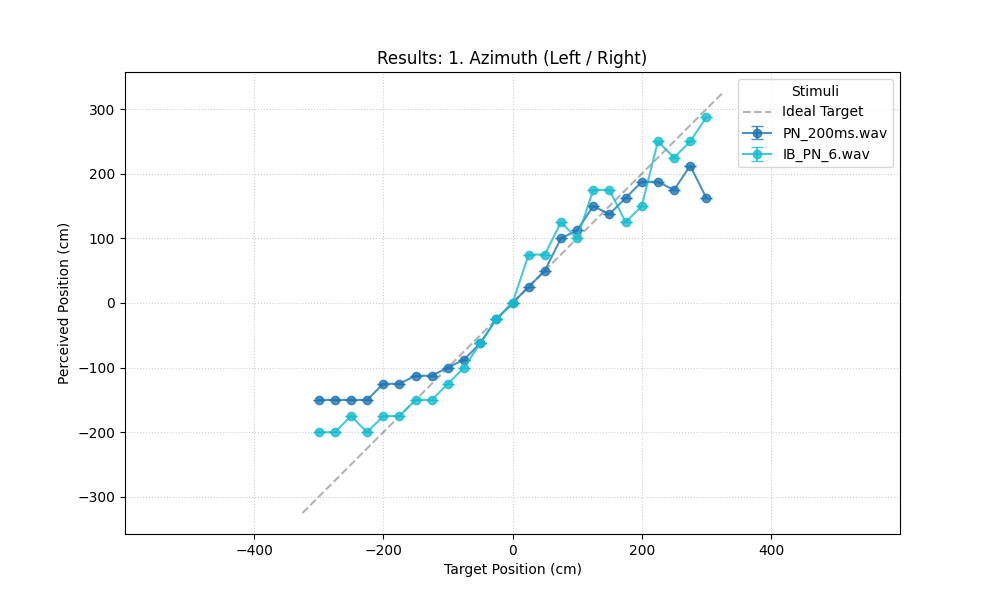
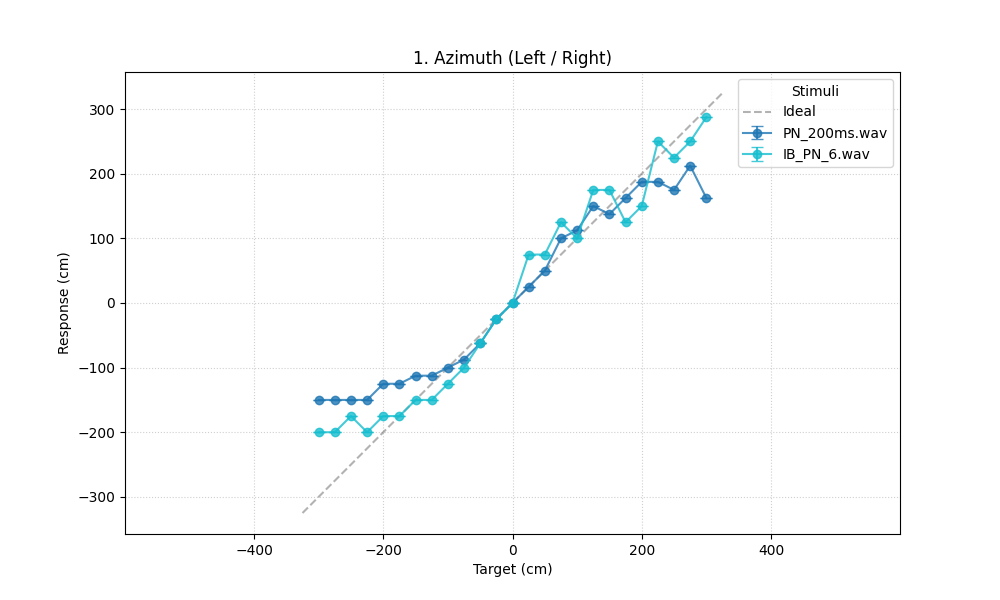
update to compare elev/distance dimensions graph

diff --git a/PanningApp/src/gui/data_analysis.py b/PanningApp/src/gui/data_analysis.py
@@ -6,9 +6,10 @@ from collections import defaultdict
 
 def generate_aggregated_plots(data_folder_name="experiment_data"):
     """
-    1. Scans all CSVs (old and new).
-    2. Generates individual graphs for each Experiment (split by Audio).
-    3. Generates a MASTER GRAPH comparing all Dimensions against each other.
+    1. Scans all CSVs.
+    2. Generates detailed graphs for each Experiment.
+    3. Generates a MASTER GRAPH (All dims).
+    4. Generates COMPARISON GRAPHS (Mono vs Dual for Dist/Elev).
     """
     
     current_file_path = os.path.abspath(__file__)
@@ -19,7 +20,7 @@ def generate_aggregated_plots(data_folder_name="experiment_data"):
         print(f"Data folder not found at: {data_folder}")
         return
 
-    # Structure: experiments[exp_label][audio_filename][target_cm] = [response1, response2...]
+    # Structure: experiments[exp_key][audio_filename][target_cm] = [response1, response2...]
     experiments = defaultdict(lambda: defaultdict(lambda: defaultdict(list)))
     
     files_processed = 0
@@ -35,35 +36,35 @@ def generate_aggregated_plots(data_folder_name="experiment_data"):
             with open(filepath, 'r', encoding='utf-8') as f:
                 reader = csv.reader(f)
                 
-                current_exp = None
+                # We need to map the readable Label back to the Key if possible, 
+                # OR just use the Label as the key. 
+                # Since experiment_logic saves the LABEL in the CSV, we use the Label.
+                current_exp_label = None
                 current_audio = "Unknown Audio"
                 parsing_data = False
                 
                 for row in reader:
                     if not row: continue 
                     
-                    # 1. Detect Metadata
                     if len(row) >= 2:
                         key = row[0].strip()
                         val = row[1].strip()
                         if key == "Experiment":
-                            current_exp = val
+                            current_exp_label = val
                             parsing_data = False 
                         elif key == "Audio":
                             current_audio = val
                     
-                    # 2. Detect Data Block
                     if len(row) > 0 and row[0] == "Trial_ID":
                         parsing_data = True
                         continue 
                         
-                    # 3. Parse Data
-                    if parsing_data and current_exp:
+                    if parsing_data and current_exp_label:
                         try:
                             if len(row) < 4: continue
                             target = float(row[2])
                             response = float(row[3])
-                            experiments[current_exp][current_audio][target].append(response)
+                            experiments[current_exp_label][current_audio][target].append(response)
                         except (ValueError, IndexError):
                             continue
                         
@@ -72,16 +73,27 @@ def generate_aggregated_plots(data_folder_name="experiment_data"):
 
     print(f"Processed {files_processed} CSV files.")
 
-    # --- STEP 2: Generate Individual Experiment Plots ---
-    for exp_name, audio_groups in experiments.items():
-        _plot_multi_line_experiment(exp_name, audio_groups, data_folder)
+    # --- 1. Individual Plots ---
+    for exp_label, audio_groups in experiments.items():
+        _plot_multi_line_experiment(exp_label, audio_groups, data_folder)
 
-    # --- STEP 3: Generate Master Comparison Plot ---
+    # --- 2. Master Comparison ---
     _plot_master_comparison(experiments, data_folder)
+
+    # --- 3. Mono vs Dual Comparisons ---
+    # We look for substrings because the labels in CSV might vary slightly
+    _plot_method_comparison(experiments, data_folder, 
+                            "Distance", 
+                            "2. Distance Single", 
+                            "3. Distance Dual")
+                            
+    _plot_method_comparison(experiments, data_folder, 
+                            "Elevation", 
+                            "4. Elevation Single", 
+                            "5. Elevation Dual")
 
 
 def _plot_multi_line_experiment(exp_name, audio_groups, folder):
-    """Plots one Experiment, with separate lines for each Audio File."""
     plt.figure(figsize=(10, 6))
     
     all_targets = []
@@ -95,7 +107,7 @@ def _plot_multi_line_experiment(exp_name, audio_groups, folder):
     min_val = min(all_targets) - 25
     max_val = max(all_targets) + 25
     
-    plt.plot([min_val, max_val], [min_val, max_val], 'k--', alpha=0.3, label="Ideal Target")
+    plt.plot([min_val, max_val], [min_val, max_val], 'k--', alpha=0.3, label="Ideal")
     
     colors = plt.cm.tab10(np.linspace(0, 1, len(audio_groups)))
     
@@ -103,7 +115,6 @@ def _plot_multi_line_experiment(exp_name, audio_groups, folder):
         targets = sorted(data_dict.keys())
         means = []
         stds = []
-        
         for t in targets:
             responses = data_dict[t]
             means.append(np.mean(responses))
@@ -112,87 +123,104 @@ def _plot_multi_line_experiment(exp_name, audio_groups, folder):
         clean_name = os.path.basename(audio_name)
         plt.errorbar(targets, means, yerr=stds, fmt='o-', capsize=4, label=clean_name, color=colors[i], alpha=0.8)
 
-    plt.title(f"Results: {exp_name}")
-    plt.xlabel("Target Position (cm)")
-    plt.ylabel("Perceived Position (cm)")
+    plt.title(f"{exp_name}")
+    plt.xlabel("Target (cm)")
+    plt.ylabel("Response (cm)")
     plt.grid(True, linestyle=':', alpha=0.6)
     plt.legend(title="Stimuli")
     plt.axis('equal')
     
     safe_name = "".join([c for c in exp_name if c.isalnum() or c in (' ', '_')]).strip().replace(" ", "_")
-    save_path = os.path.join(folder, f"GRAPH_{safe_name}.png")
-    plt.savefig(save_path)
+    plt.savefig(os.path.join(folder, f"GRAPH_{safe_name}.png"))
     plt.close()
-    print(f" -> Generated Graph: {save_path}")
 
 
 def _plot_master_comparison(experiments, folder):
-    """
-    Aggregates ALL data for each Experiment Type (ignoring audio differences)
-    and plots them on a single graph for comparison.
-    """
     plt.figure(figsize=(12, 8))
-    
-    # Track bounds for the diagonal line
     global_min = 0
     global_max = 0
     has_data = False
-
-    # Use a distinct color for each Experiment Type
     colors = plt.cm.Dark2(np.linspace(0, 1, len(experiments)))
 
     for i, (exp_name, audio_groups) in enumerate(experiments.items()):
-        # 1. Merge all audio data for this experiment into one bucket
-        merged_data = defaultdict(list)
+        # Merge all audio
+        merged = defaultdict(list)
+        for _, data_dict in audio_groups.items():
+            for t, r in data_dict.items():
+                merged[t].extend(r)
         
-        for audio_file, data_dict in audio_groups.items():
-            for target, responses in data_dict.items():
-                merged_data[target].extend(responses)
-        
-        if not merged_data: continue
+        if not merged: continue
         has_data = True
         
-        # 2. Calculate Stats
-        targets = sorted(merged_data.keys())
-        means = []
-        # specific standard deviation for error bars
-        # stds = [] 
+        targets = sorted(merged.keys())
+        means = [np.mean(merged[t]) for t in targets]
         
-        for t in targets:
-            responses = merged_data[t]
-            means.append(np.mean(responses))
-            # stds.append(np.std(responses))
-        
-        # Update bounds
         global_min = min(global_min, min(targets))
         global_max = max(global_max, max(targets))
 
-        # 3. Plot Line
-        # Shorten name for legend (e.g., "1. Azimuth (Left/Right)" -> "Azimuth")
         short_name = exp_name.split('.')[1].split('(')[0].strip() if '.' in exp_name else exp_name
-        
-        plt.plot(targets, means, 'o-', linewidth=2, label=short_name, color=colors[i], markersize=6)
-        
-        # Optional: Add faint error band instead of messy bars
-        # plt.fill_between(targets, np.array(means)-np.array(stds), np.array(means)+np.array(stds), color=colors[i], alpha=0.1)
+        plt.plot(targets, means, 'o-', linewidth=2, label=short_name, color=colors[i])
 
-    if not has_data:
-        plt.close()
+    if has_data:
+        pad = 25
+        plt.plot([global_min - pad, global_max + pad], [global_min - pad, global_max + pad], 'k--', alpha=0.3)
+        plt.title("MASTER COMPARISON: All Dimensions")
+        plt.xlabel("Target (cm)")
+        plt.ylabel("Response (cm)")
+        plt.grid(True)
+        plt.legend()
+        plt.axis('equal')
+        plt.savefig(os.path.join(folder, "GRAPH_MASTER_COMPARISON.png"))
+    plt.close()
+
+
+def _plot_method_comparison(experiments, folder, dim_name, key_single, key_dual):
+    """
+    Finds experiments matching 'key_single' and 'key_dual' and plots them 
+    on one graph to compare Mono vs Dual Mono.
+    """
+    # 1. Find the actual full keys (labels) used in the dictionary
+    label_single = next((k for k in experiments.keys() if key_single in k), None)
+    label_dual = next((k for k in experiments.keys() if key_dual in k), None)
+
+    if not label_single or not label_dual:
+        print(f"Skipping {dim_name} comparison (Missing data for {key_single} or {key_dual})")
         return
 
-    # Add Ideal Line
-    pad = 25
-    plt.plot([global_min - pad, global_max + pad], [global_min - pad, global_max + pad], 
-             'k--', alpha=0.3, linewidth=1, label="Ideal")
+    plt.figure(figsize=(10, 6))
+    
+    # 2. Extract and Plot Data
+    for label, color, tag in [(label_single, 'blue', 'Single (Mono)'), (label_dual, 'red', 'Dual (Phantom)')]:
+        
+        # Merge all audio files for this method
+        merged = defaultdict(list)
+        for _, data_dict in experiments[label].items():
+            for t, r in data_dict.items():
+                merged[t].extend(r)
+                
+        if not merged: continue
+        
+        targets = sorted(merged.keys())
+        means = [np.mean(merged[t]) for t in targets]
+        stds = [np.std(merged[t]) for t in targets]
+        
+        # Plot
+        plt.errorbar(targets, means, yerr=stds, fmt='o-', capsize=5, 
+                     label=tag, color=color, linewidth=2, alpha=0.8)
+        
+        # Determine bounds
+        min_val = min(targets) - 25
+        max_val = max(targets) + 25
+        plt.plot([min_val, max_val], [min_val, max_val], 'k--', alpha=0.1) # Faint reference
 
-    plt.title("MASTER COMPARISON: Localization Accuracy by Dimension", fontsize=14)
-    plt.xlabel("Target Position (cm)", fontsize=12)
-    plt.ylabel("Perceived Position (cm)", fontsize=12)
-    plt.grid(True, linestyle='-', alpha=0.4)
-    plt.legend(title="Dimension", fontsize=10)
+    plt.title(f"METHOD COMPARISON: {dim_name} (Mono vs. Dual)")
+    plt.xlabel("Target Position (cm)")
+    plt.ylabel("Perceived Position (cm)")
+    plt.grid(True, linestyle=':', alpha=0.6)
+    plt.legend()
     plt.axis('equal')
     
-    save_path = os.path.join(folder, "GRAPH_MASTER_COMPARISON.png")
-    plt.savefig(save_path, dpi=150)
+    save_path = os.path.join(folder, f"GRAPH_COMPARE_{dim_name.upper()}.png")
+    plt.savefig(save_path)
     plt.close()
-    print(f" -> Generated Master Graph: {save_path}")
+    print(f" -> Generated Comparison: {save_path}")
